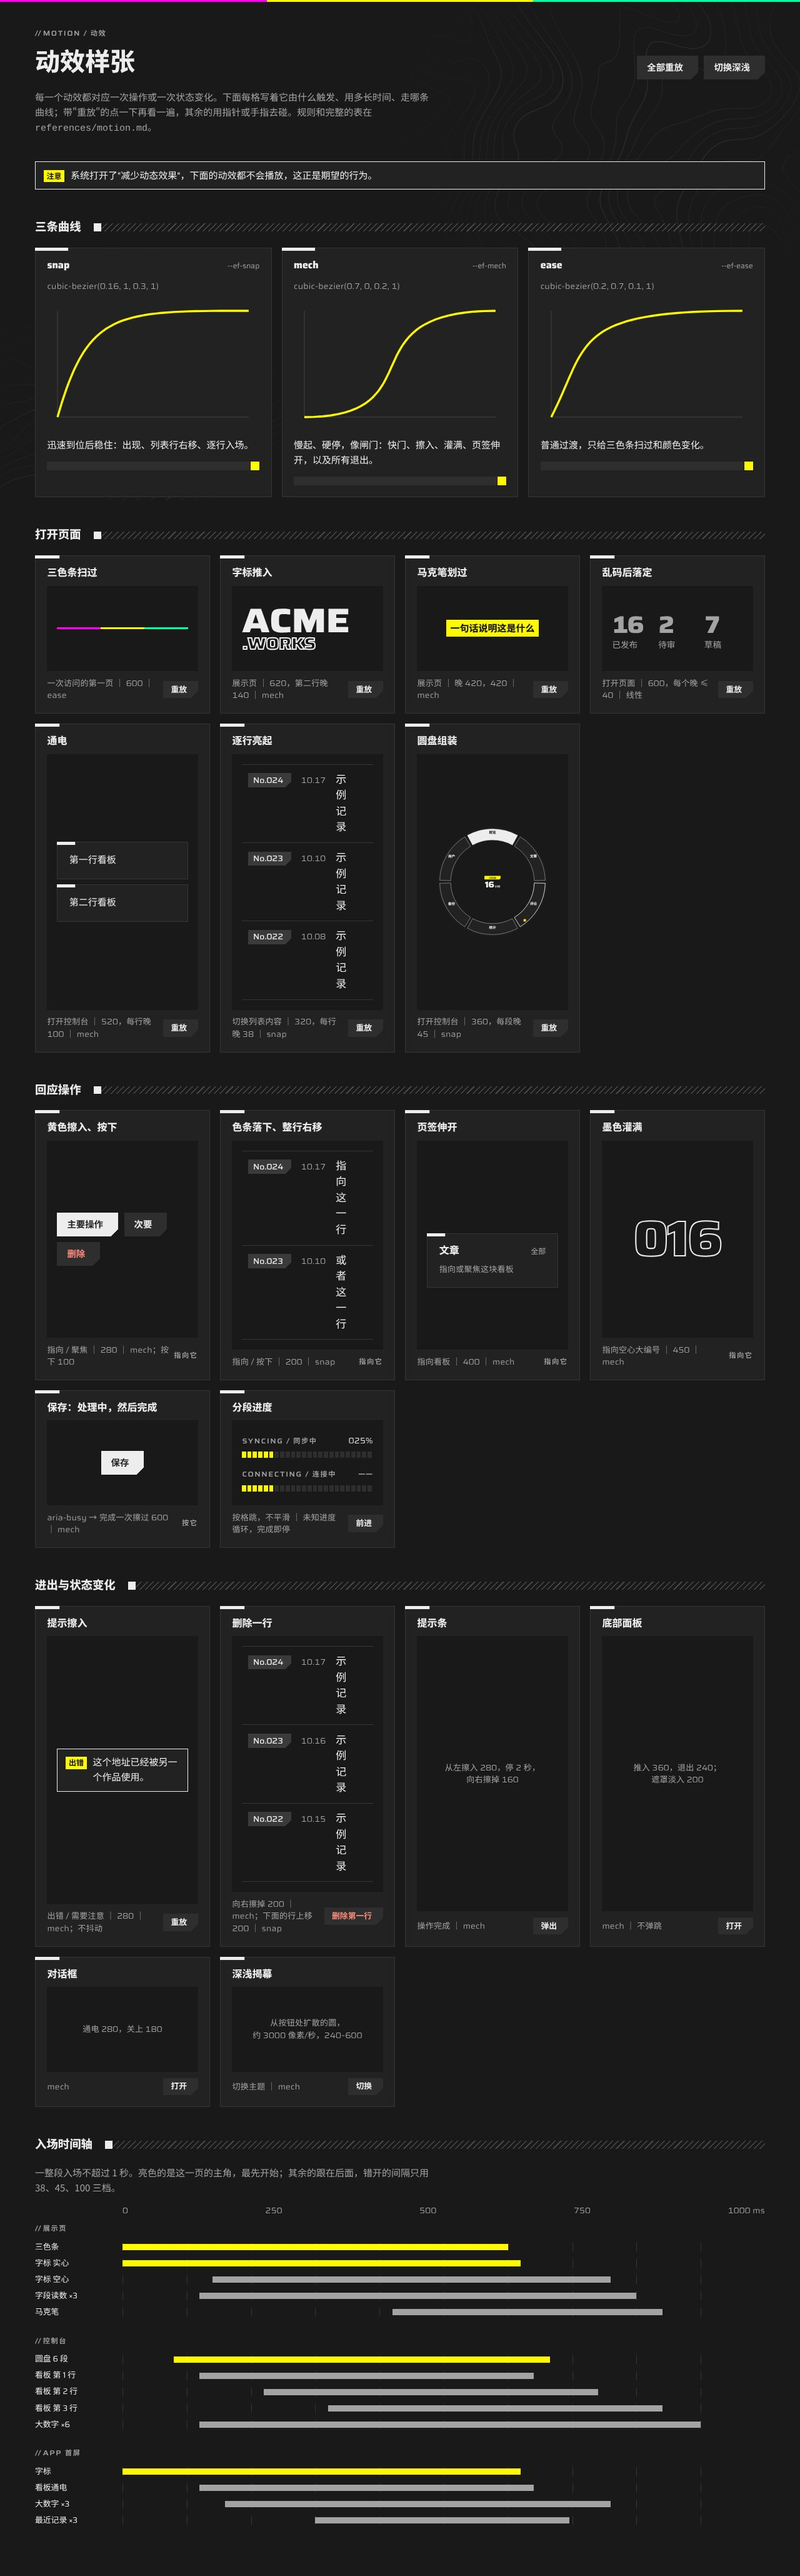
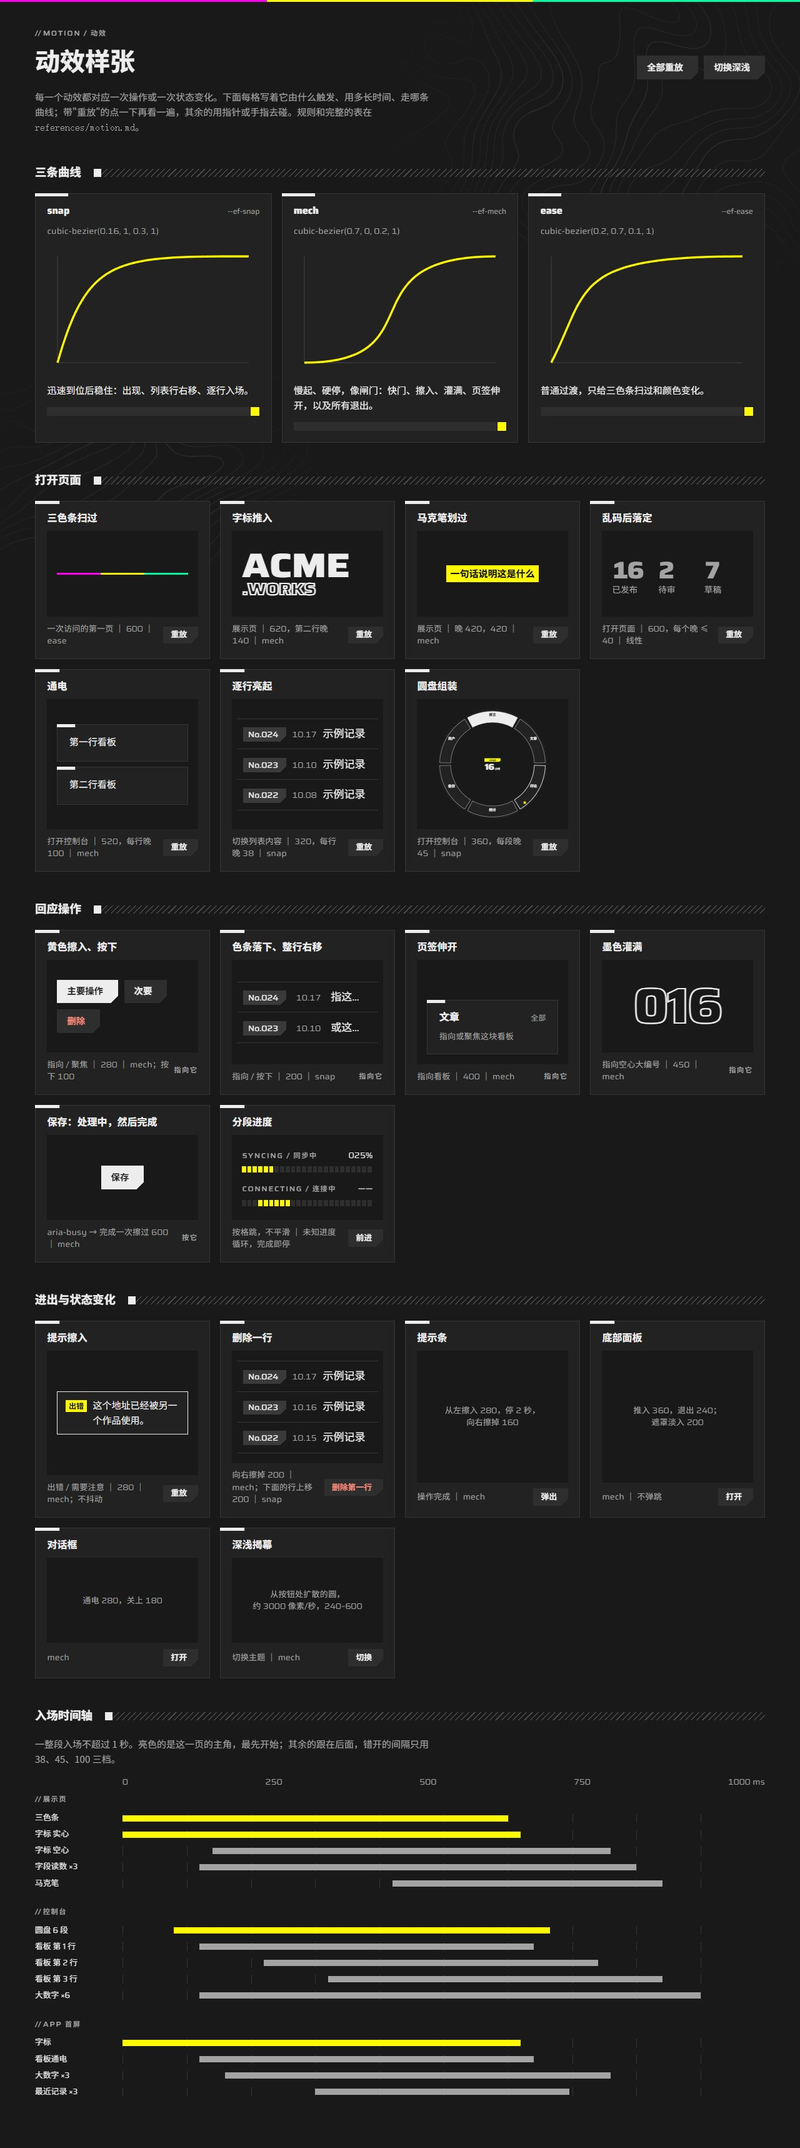
Motion GIFs in examples/motion and README; fit record rows in motion cards

diff --git a/templates/motion.html b/templates/motion.html
@@ -137,6 +137,19 @@
       .mini-records {
         width: 100%;
       }
+      /* a card is narrow: three fields, tighter gaps, the name on one line */
+      .stage:has(.mini-records) {
+        padding-inline: 0.5rem;
+      }
+      .mini-records .ef-record {
+        grid-template-columns: auto auto minmax(0, 1fr);
+        gap: 0 0.6rem;
+      }
+      .mini-records .ef-record .name {
+        overflow: hidden;
+        white-space: nowrap;
+        text-overflow: ellipsis;
+      }
       .mini-panel {
         width: 100%;
       }
@@ -304,8 +317,8 @@
             <h3>色条落下、整行右移</h3>
             <div class="stage">
               <ol class="ef-records mini-records">
-                <li><a class="ef-record" href="#"><span class="ef-tag">No.024</span><span class="ef-field">10.17</span><span class="name">指向这一行</span></a></li>
-                <li><a class="ef-record" href="#"><span class="ef-tag">No.023</span><span class="ef-field">10.10</span><span class="name">或者这一行</span></a></li>
+                <li><a class="ef-record" href="#"><span class="ef-tag">No.024</span><span class="ef-field">10.17</span><span class="name">指这行</span></a></li>
+                <li><a class="ef-record" href="#"><span class="ef-tag">No.023</span><span class="ef-field">10.10</span><span class="name">或这行</span></a></li>
               </ol>
             </div>
             <footer><span class="ef-field">指向 / 按下 │ 200 │ snap</span><span class="ef-eyebrow">指向它</span></footer>

diff --git a/README.md b/README.md
@@ -70,22 +70,46 @@ endfield-ui-skill/
 │   ├── specimen.html         全部网页部件的样张
 │   ├── antipatterns.html     做与不做的对照页
 │   └── flutter/              Flutter 套件（lib/ef/）和六个示例屏幕
-└── examples/                 截图，不用跑就能看
+└── examples/                 截图和动图，不用跑就能看
     ├── web/                  各网页模板的浅色、深色、手机宽度截图
-    └── app/                  Flutter 示例屏幕（390×844，浅、深），overview-*.jpg 是六屏总览
+    ├── app/                  Flutter 示例屏幕（390×844，浅、深），overview-*.jpg 是六屏总览
+    └── motion/               动效录屏 GIF：展示页、控制台、动效样张各区、深浅揭幕、手机网页
 ```
 
 agent 的工作顺序：读 `SKILL.md` → 按调子和平台打开对应的 `references/platforms/*.md` → 网页直接引用 `assets/`，Flutter 拷 `templates/flutter/lib/ef/`，其他平台照 `tokens.json` 和平台指南自己落地 → 用 `SKILL.md` 末尾的清单自查。
 
 ## 预览
 
-### 只看截图
+### 只看截图和动图
 
-`examples/web/` 和 `examples/app/` 里是全部模板的截图，GitHub 上直接点开即可。
+`examples/web/` 和 `examples/app/` 里是全部模板的截图，`examples/motion/` 里是动效录屏，GitHub 上直接点开即可。
 
 ![App screens](examples/app/overview-light.jpg)
 
-![Console](examples/web/console-light.jpg)
+**展示页打开**：三色条扫过、字标推入、马克笔划过、读数乱码后落定，随后指针视差
+
+![展示页打开](examples/motion/showcase-open.gif)
+
+**控制台打开**：看板逐行通电、圆盘分段组装，然后指向圆盘各段 —— 括住、光束连到中心、读数换成该段
+
+![控制台打开](examples/motion/console-open.gif)
+
+**深浅揭幕**：从按钮处扩散的圆
+
+![深浅揭幕](examples/motion/theme-reveal.gif)
+
+<table>
+<tr>
+<td width="50%"><b>入场动效</b>（<code>motion.html</code>“打开页面”一区，全部重放）<br><img src="examples/motion/entrances.gif" alt="入场动效"></td>
+<td width="50%"><b>回应操作</b>：按钮擦入与按下、行右移、页签伸开、墨色灌满、保存完成、分段进度<br><img src="examples/motion/responses.gif" alt="回应操作"></td>
+</tr>
+<tr>
+<td><b>进出与状态变化</b>：提示擦入、删除一行、提示条、底部面板、对话框<br><img src="examples/motion/in-and-out.gif" alt="进出与状态变化"></td>
+<td><b>手机网页</b>（<code>app.html</code>）：列表入场、底部面板、切换标签<br><img src="examples/motion/app.gif" alt="手机网页" width="300"></td>
+</tr>
+</table>
+
+GIF 只有 20 帧/秒、颜色也压过，曲线的手感以浏览器里实际跑的为准。
 
 ### 在浏览器里跑网页模板
 
